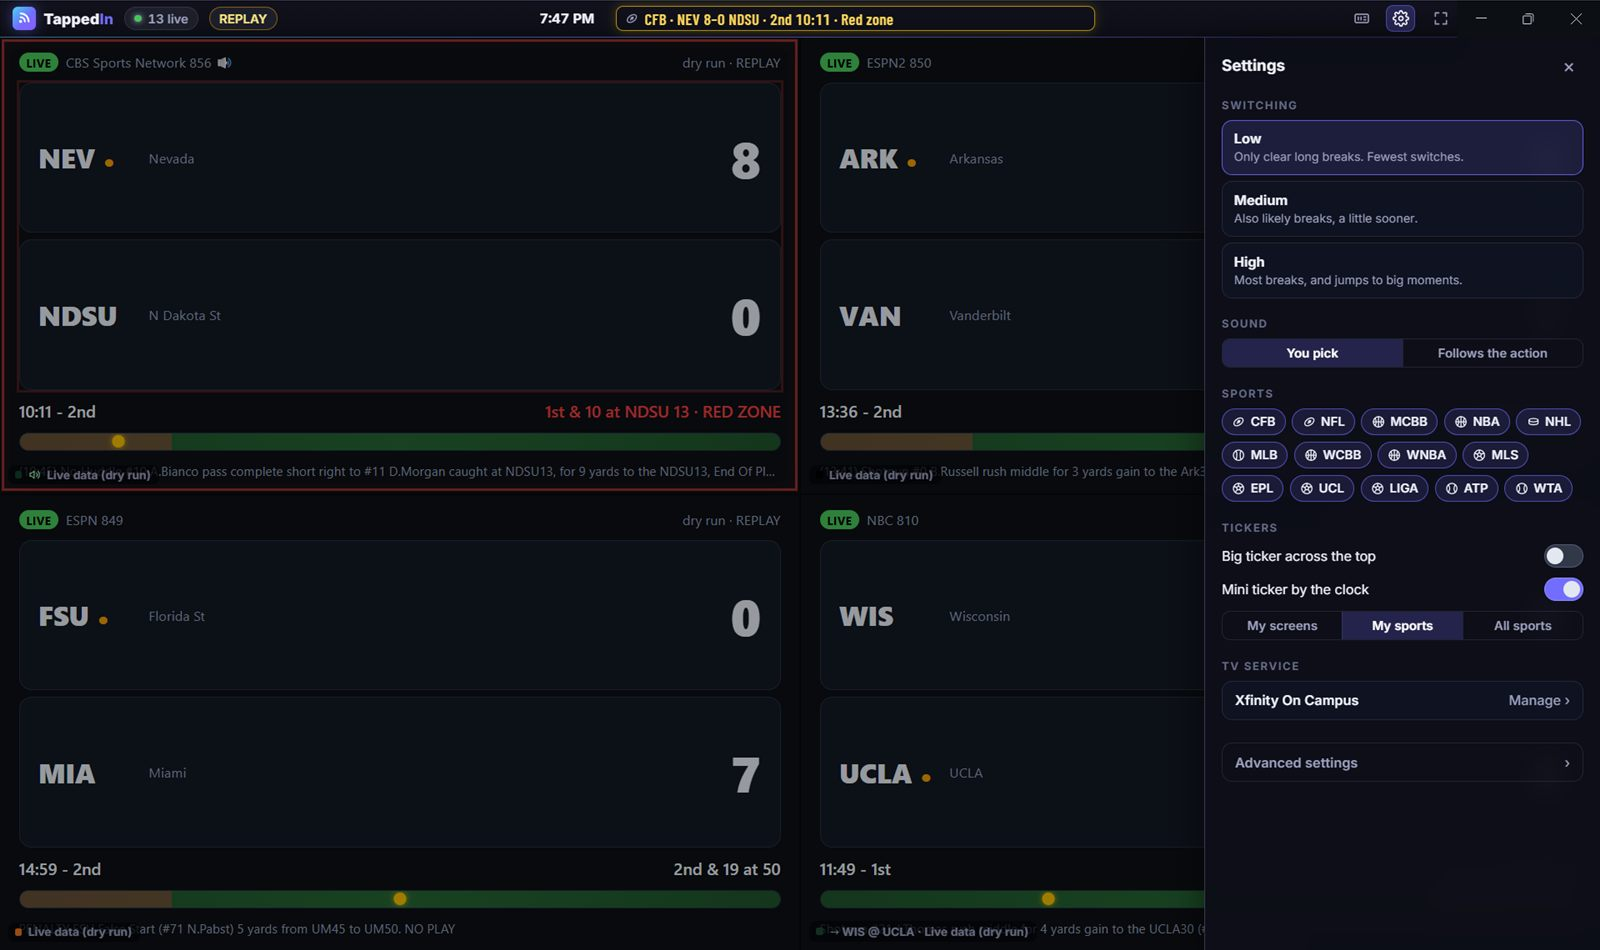
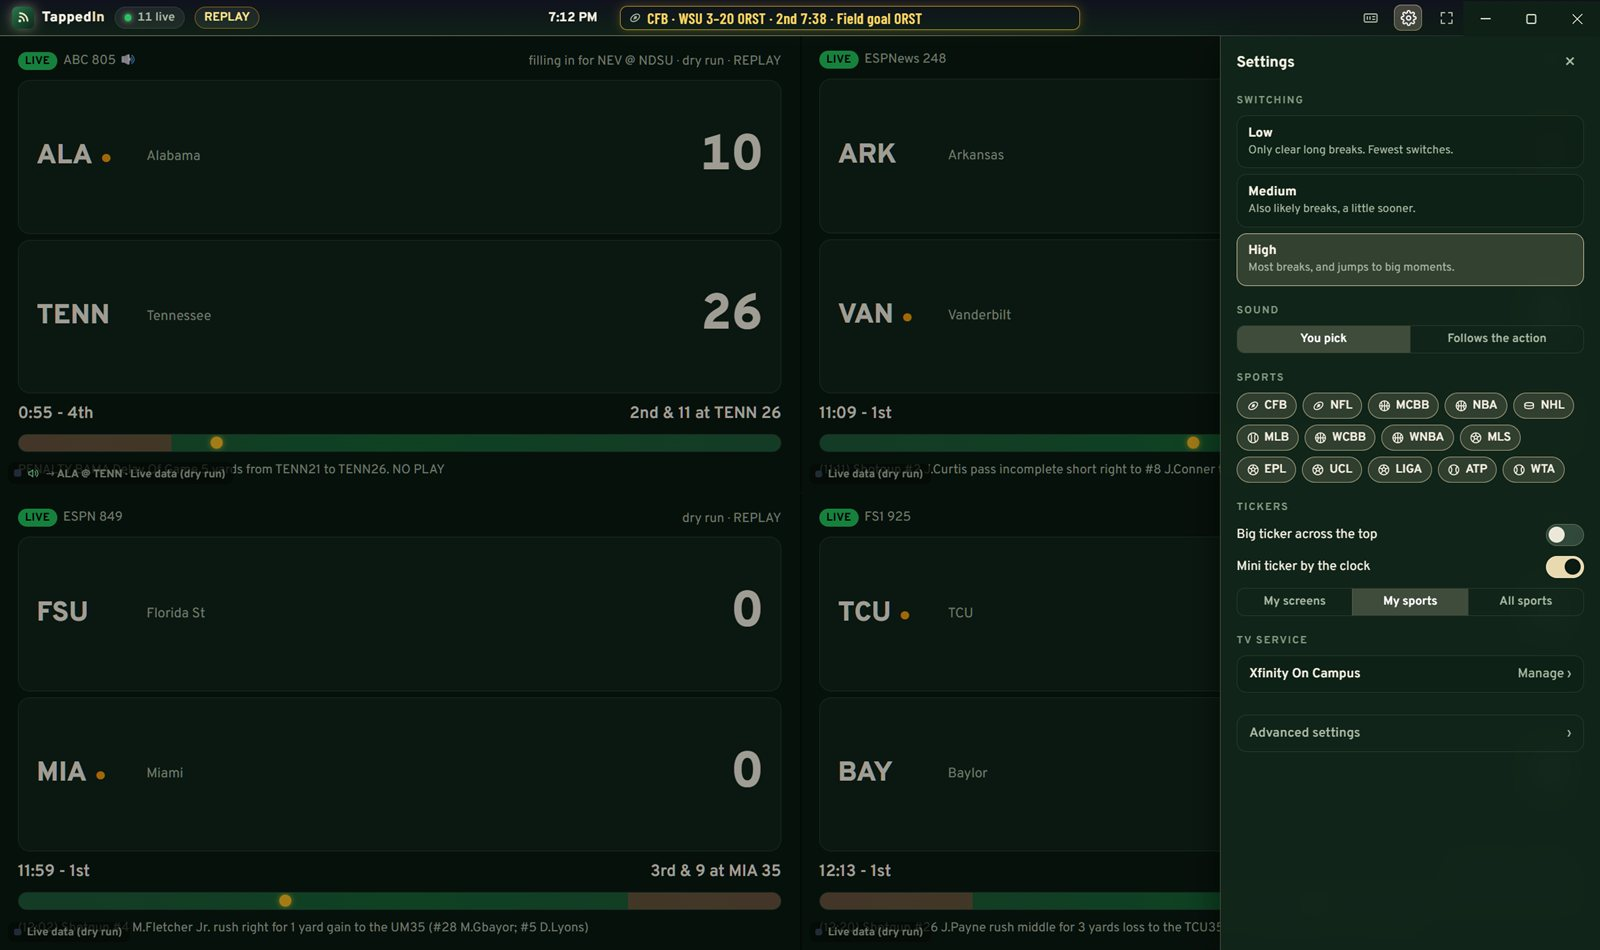
Website screenshots in the app's current look
All eight src/img shots retaken from the restyled app (night-turf palette,
Overpass, new logo) in replay mode: the hero fill-in is now WSU @ ORST filling
in for TCU @ BAY, the game-over picker UNLV 31-41 AFA. Alt text and the
website README's screenshot note follow.

diff --git a/website/src/index.html b/website/src/index.html
@@ -75,7 +75,7 @@
 
   <figure class="hero-shot">
     <div class="frame">
-      <img src="/img/fill-in.jpg" alt="TappedIn with four college football games in a two-by-two grid. The top-right screen has switched to Louisville at Syracuse during its own game's break, and says why: kickoff after a score, about a minute and a half left." width="1600" height="950" fetchpriority="high">
+      <img src="/img/fill-in.jpg" alt="TappedIn with four college football games in a two-by-two grid. The bottom-right screen has switched to Washington State at Oregon State during its own game's break, and says why: TCU at Baylor is at a change of possession, about a minute left." width="1600" height="950" fetchpriority="high">
     </div>
     <figcaption>From TappedIn's replay mode, which shows each screen's live game data. In the app, each screen plays your TV service's channel.</figcaption>
   </figure>
@@ -193,7 +193,7 @@
             <figcaption>Highlight video blurred for this page.</figcaption>
           </figure>
           <figure data-i="1">
-            <div class="frame"><img src="/img/game-over.jpg" alt="A game-over picker in one screen: final, Notre Dame 24, BYU 28, with a list of live games and a countdown to the best one." width="1600" height="950" loading="lazy"></div>
+            <div class="frame"><img src="/img/game-over.jpg" alt="A game-over picker in one screen: final, UNLV 31, Air Force 41, with a list of live games and a countdown to the best one." width="1600" height="950" loading="lazy"></div>
           </figure>
         </div>
       </div>

diff --git a/website/README.md b/website/README.md
@@ -61,4 +61,4 @@ On every `v*` tag, `.github/workflows/release.yml` builds the signed installer, 
 
 ## Screenshots
 
-`src/img/*.jpg` were taken from the app in replay mode (`npm start -- --replay 20261017 --from 19:30`): data tiles, no streams. ESPN's team logos were blocked, so teams show the app's own abbreviation badges, the halftime reel's highlight video and the logos in the game-over picker are pixelated, and `setup.jpg` comes from `--setup-demo`. Keep new screenshots free of broadcast video and logos.
+`src/img/*.jpg` (1600×950, JPEG q85) were taken from the app in its current look, in replay mode: data tiles, no streams. Copy `test/fixtures/replay-20261017/` to `recordings/20261017/` and run `npm start -- --replay 20261017 --speed 10` (the fixture covers 6:31–7:14 PM ET). `halftime.jpg` needs a later hour: `npm run fetch-day -- 20261017`, then `--synth --from 20:30`. Teams show the app's own abbreviation badges (no logos), the halftime reel's highlight video is pixelated, and `setup.jpg` comes from `--setup-demo`. Keep new screenshots free of broadcast video and logos, and retake them when the app's look changes.
